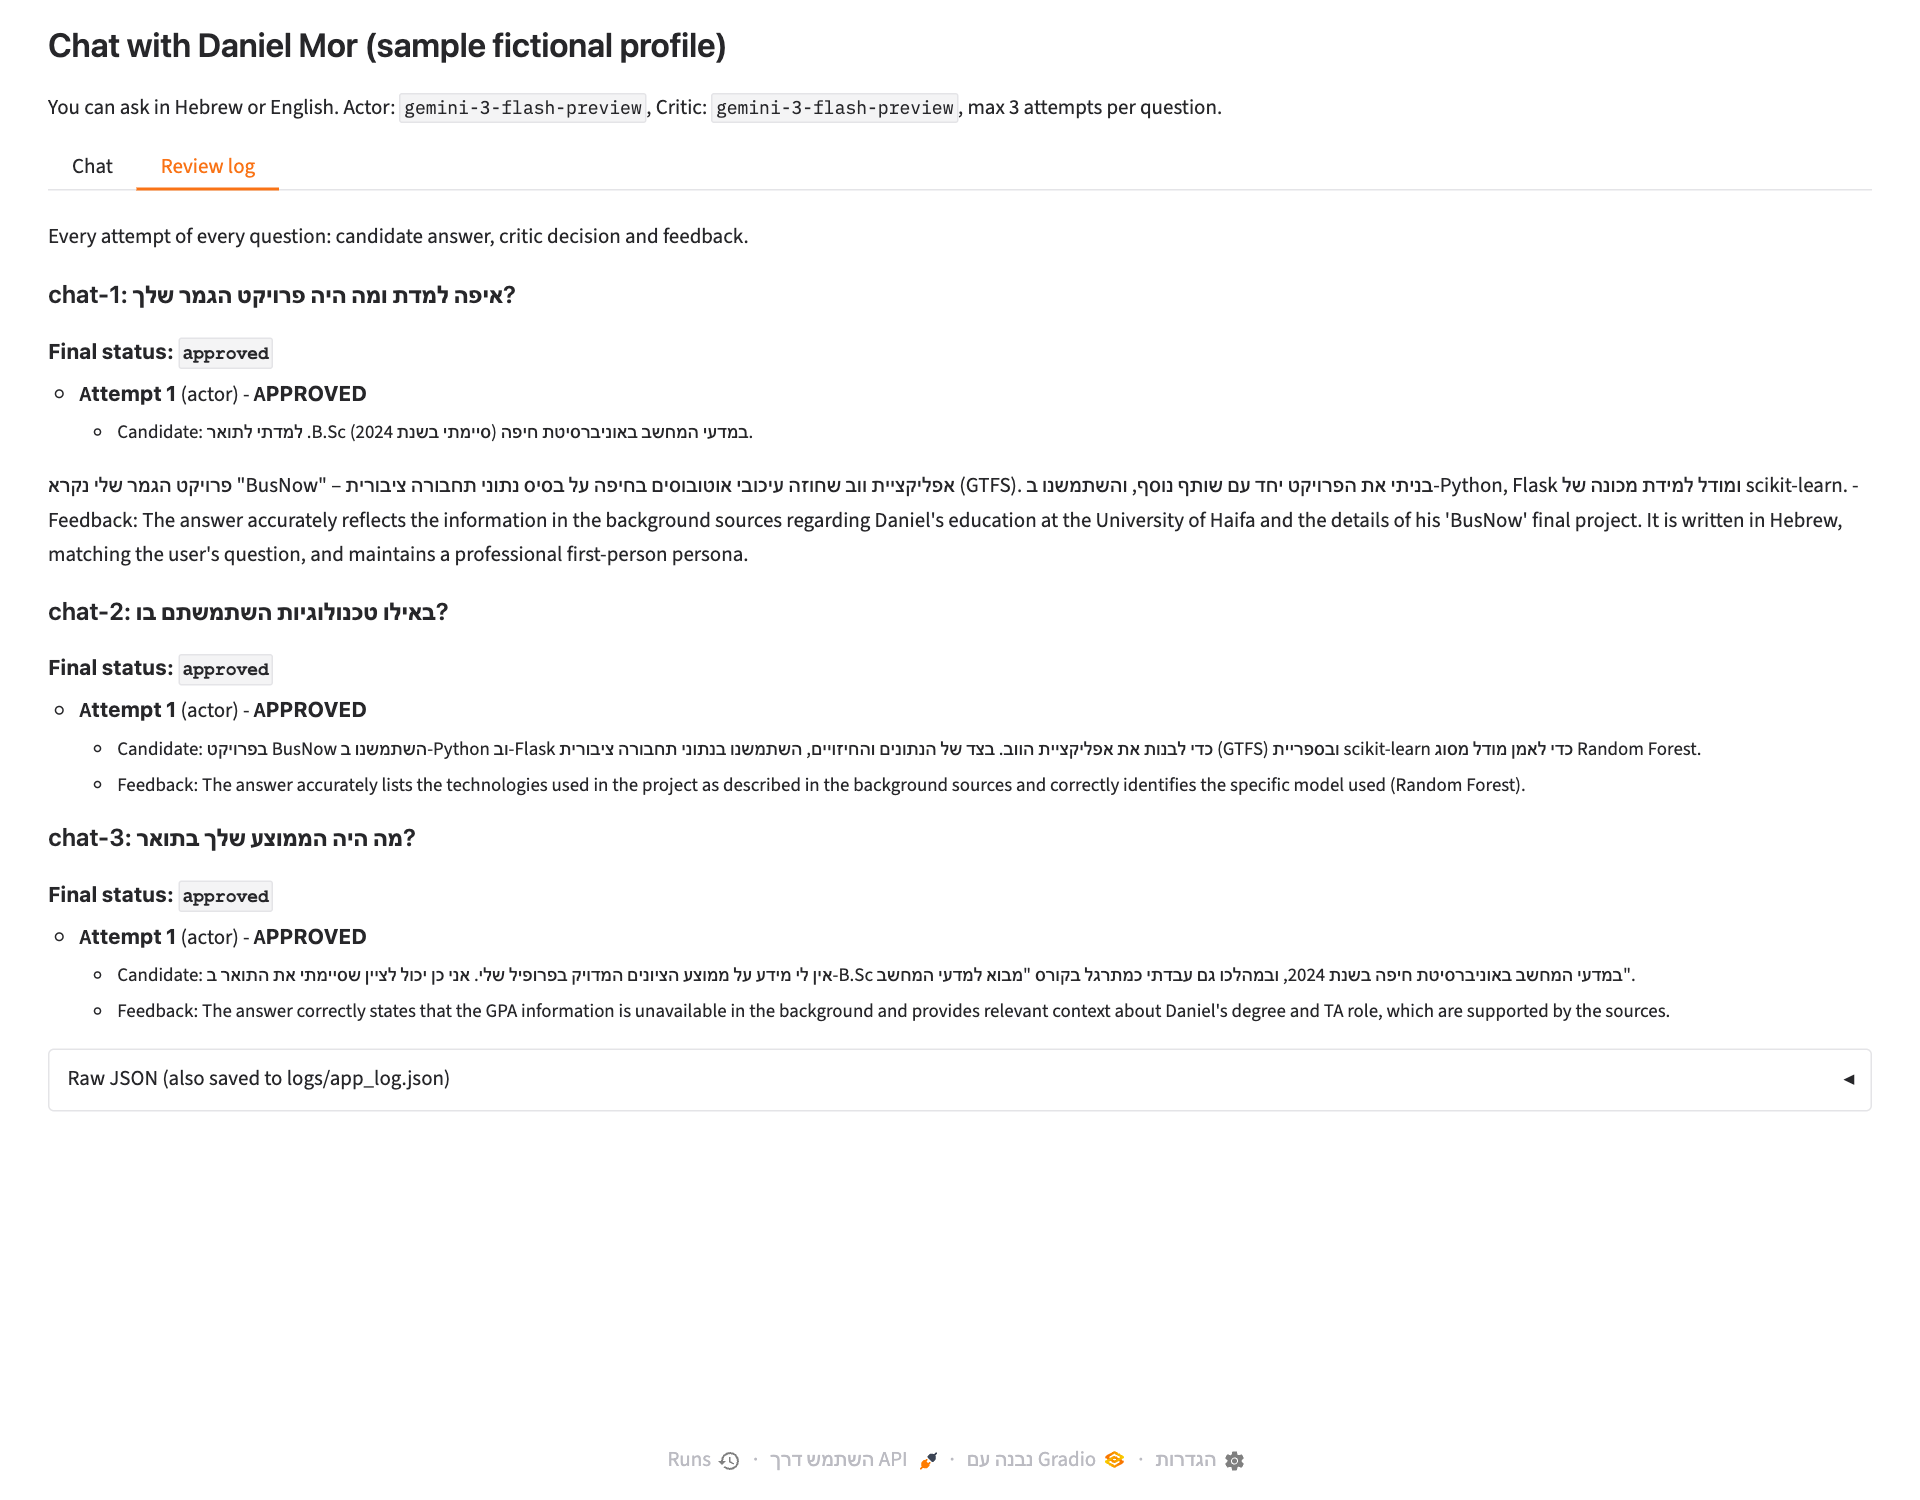
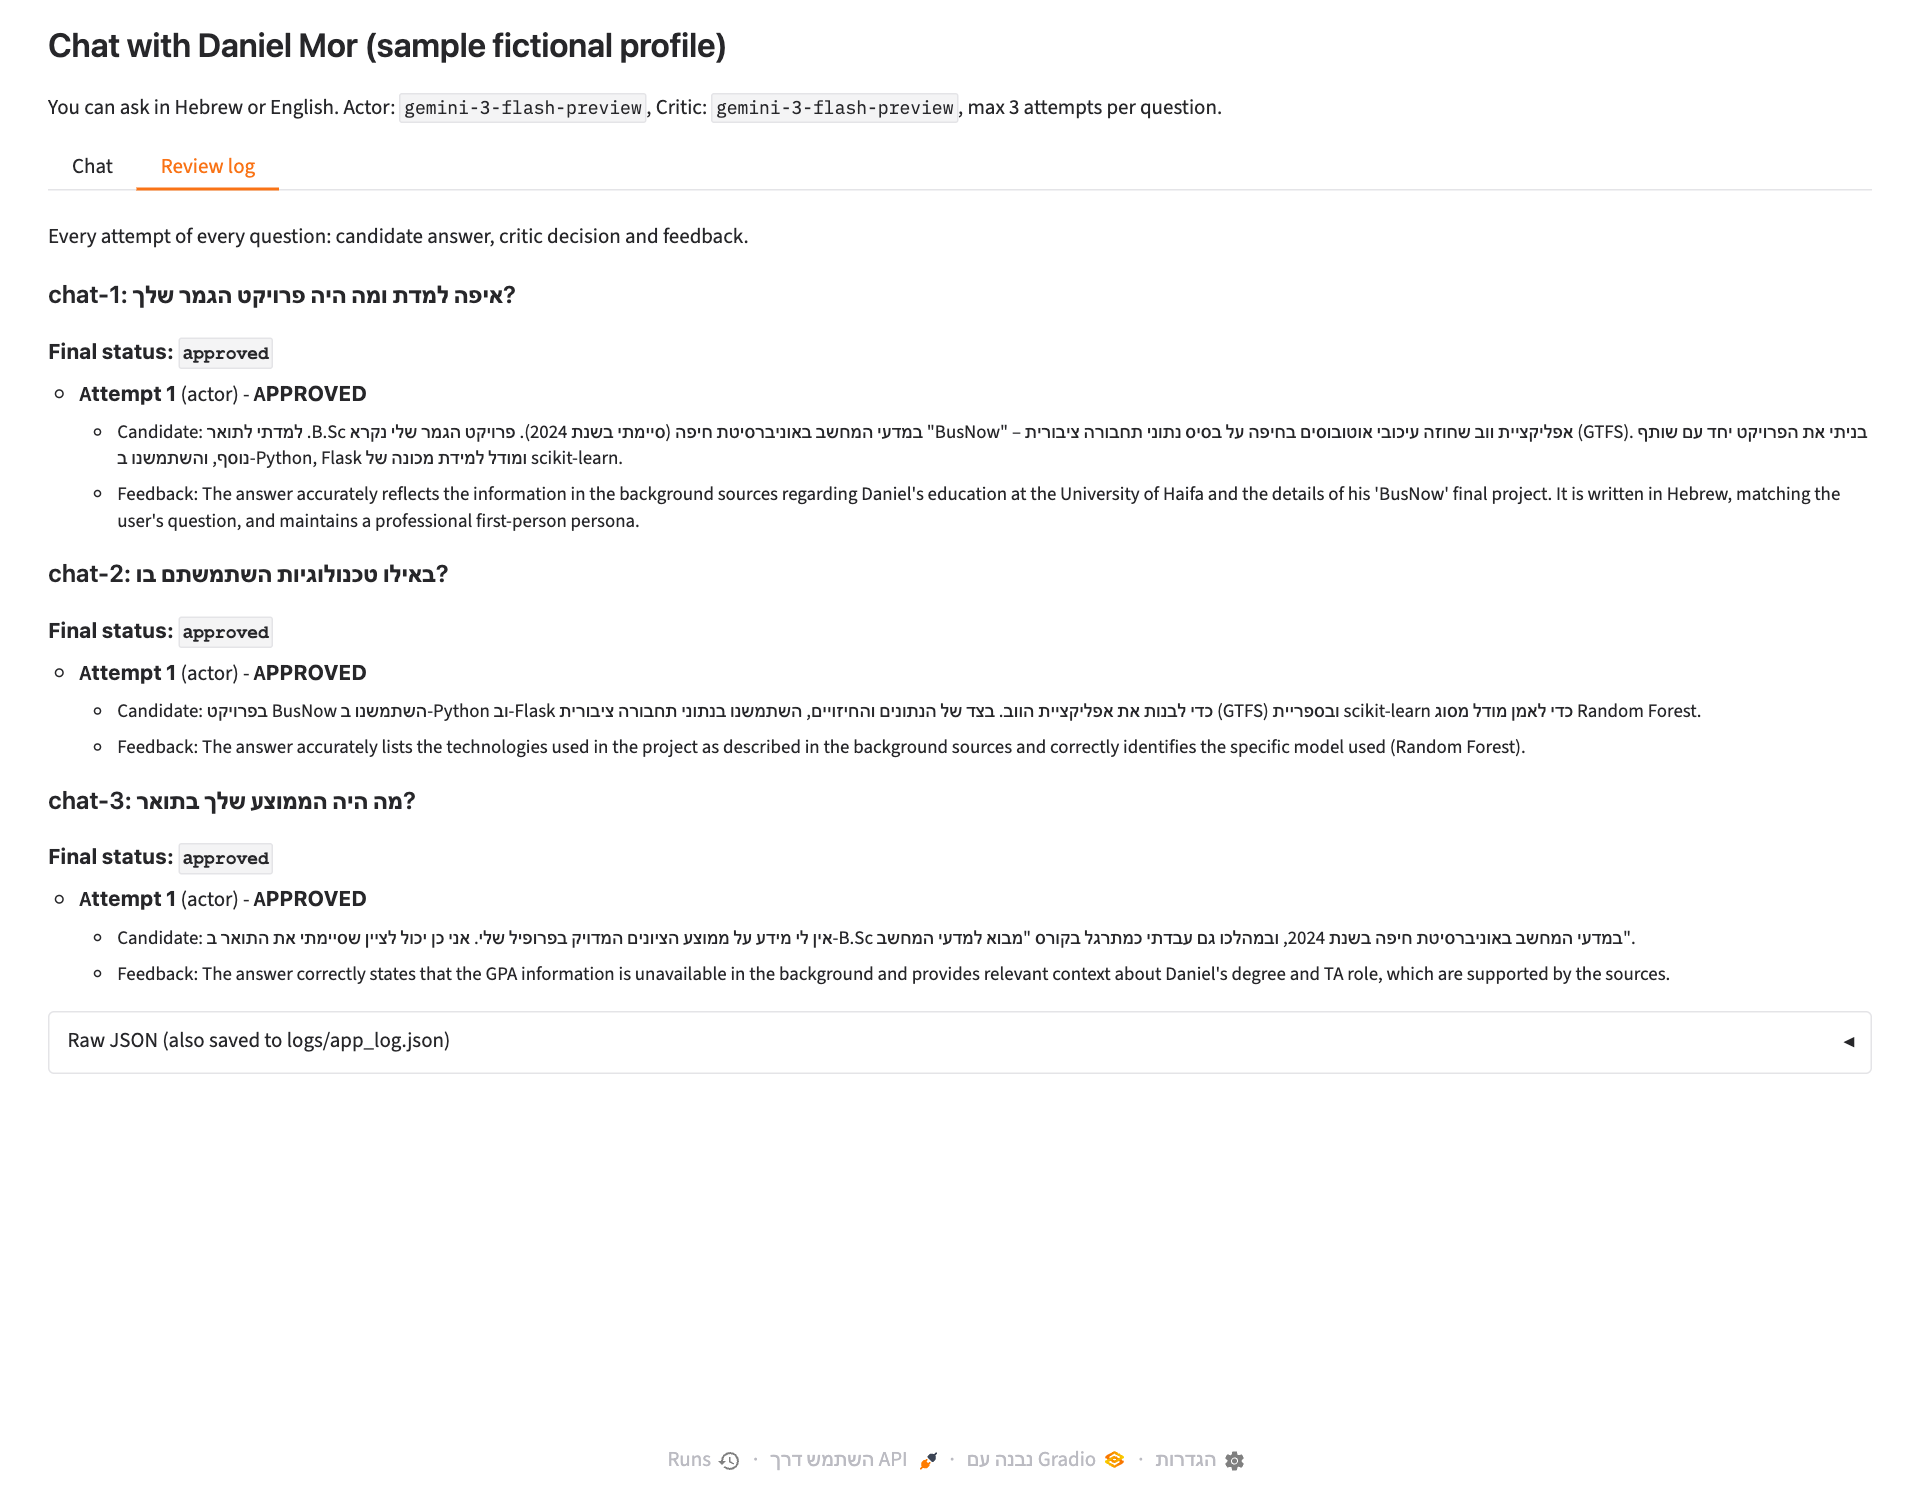
Add student details, fix review log screenshot, update README

Changed region(s): [[0.0312, 0.276, 0.9688, 0.736]]

diff --git a/README.md b/README.md
@@ -2,6 +2,8 @@
 
 AI Systems course (Dr. Paul Avrahami), lecture 2, slides 19–21.
 
+**Student:** Matan Siman Tov, ID 206356172
+
 A Gradio chat that answers as a person, based on a LinkedIn profile and a personal summary.
 Every answer is written by an **Actor** (LLM), checked by a **Critic** (separate LLM call with its own
 prompt) that returns structured output validated with **Pydantic**, and if it is rejected the Actor
@@ -107,6 +109,8 @@ Outputs:
 | 5 | Mock critic (control flow test) | 3 rejections, stopped, limit message shown | yes |
 
 Screenshots are in `screenshots/`, the short report is `report.docx`.
+Screenshots 01–03 show the real chat session from `logs/app_log.json` (gemini-3-flash-preview). After a small
+fix to the review-log formatting they were re-rendered from that saved log in the same UI, without new API calls.
 
 ## How the loop works
 
